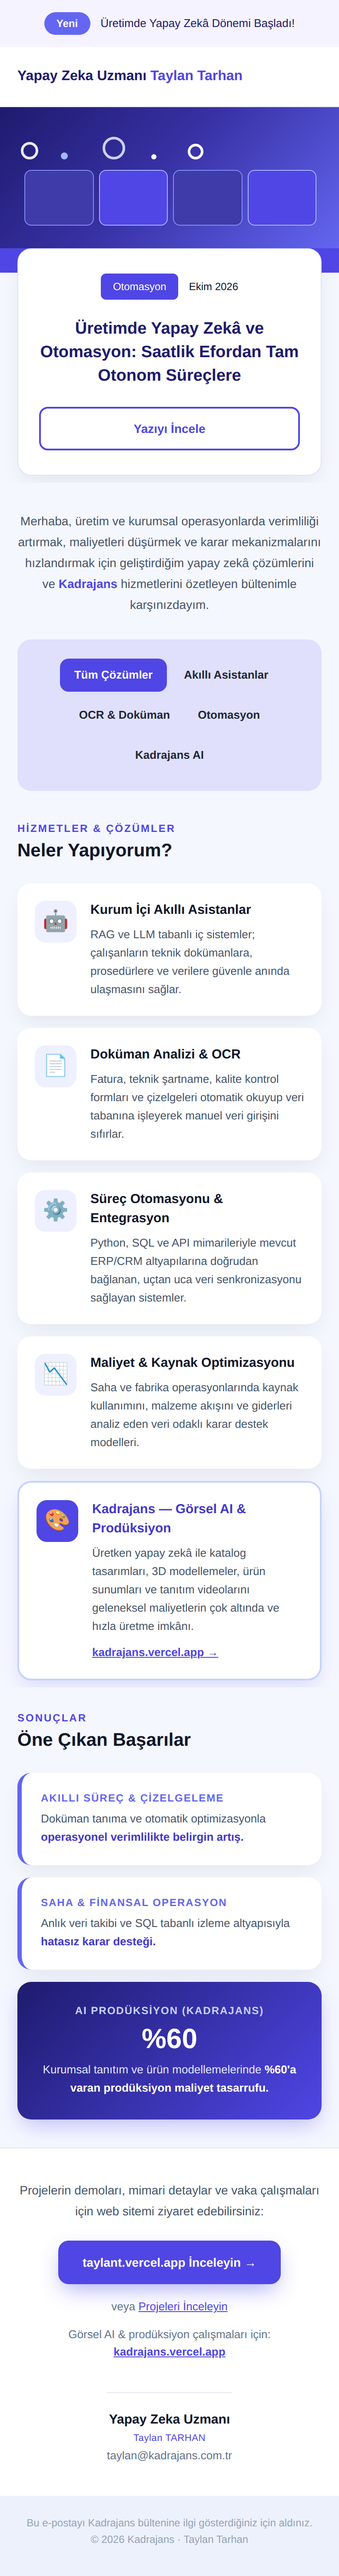
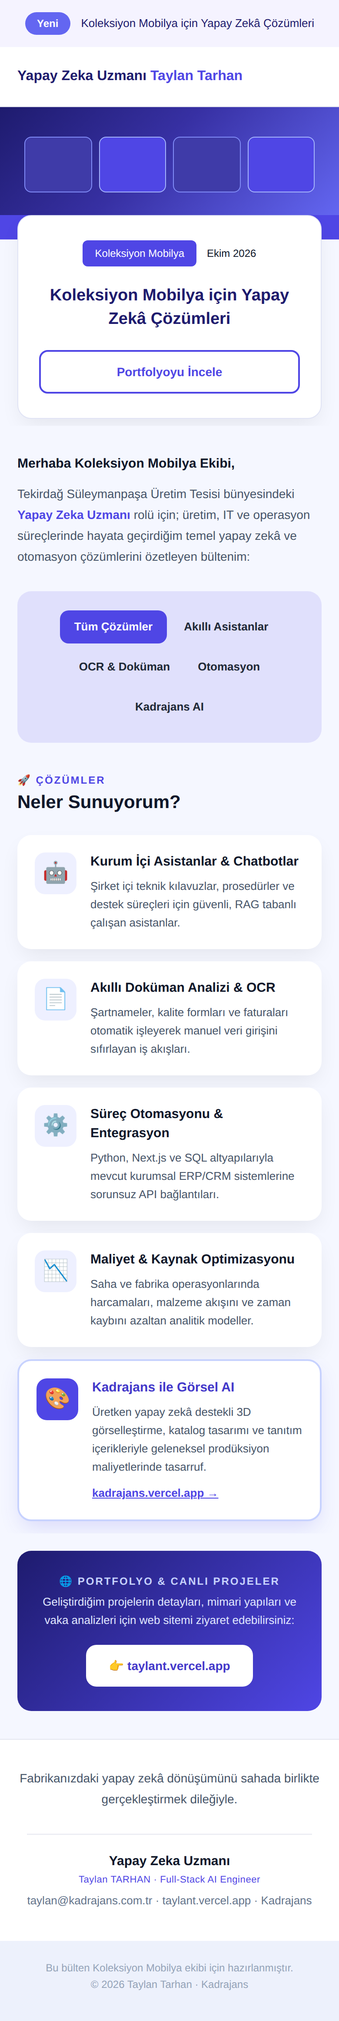
Bülten içeriğini Koleksiyon Mobilya metniyle güncelle
Claude-Session: https://claude.ai/code/session_01Dy8T3rEx6MDvU9o5oYD5pN

diff --git a/newsletter/kadrajans-bulten.html b/newsletter/kadrajans-bulten.html
@@ -1,18 +1,16 @@
 <!DOCTYPE html>
-<html lang="tr" xmlns="http://www.w3.org/1999/xhtml" xmlns:v="urn:schemas-microsoft-com:vml" xmlns:o="urn:schemas-microsoft-com:office:office">
+<html lang="tr" xmlns="http://www.w3.org/1999/xhtml">
 <head>
 <meta charset="utf-8">
 <meta name="viewport" content="width=device-width, initial-scale=1">
 <meta http-equiv="X-UA-Compatible" content="IE=edge">
-<meta name="x-apple-disable-message-reformatting">
 <meta name="color-scheme" content="light only">
-<title>Üretimde Yapay Zekâ ve Otomasyon — Kadrajans</title>
-<!--[if mso]><xml><o:OfficeDocumentSettings><o:PixelsPerInch>96</o:PixelsPerInch></o:OfficeDocumentSettings></xml><![endif]-->
+<title>Koleksiyon Mobilya için Yapay Zekâ Çözümleri</title>
 <link href="https://fonts.googleapis.com/css2?family=Poppins:wght@400;500;600;700;800&display=swap" rel="stylesheet">
 <style>
   body,table,td,a{-webkit-text-size-adjust:100%;-ms-text-size-adjust:100%}
   table,td{mso-table-lspace:0;mso-table-rspace:0}
-  img{-ms-interpolation-mode:bicubic;border:0;outline:none;text-decoration:none}
+  img{border:0;outline:none;text-decoration:none}
   body{margin:0!important;padding:0!important;width:100%!important}
   a{text-decoration:none}
   @media only screen and (max-width:620px){
@@ -20,281 +18,60 @@
     .px{padding-left:20px!important;padding-right:20px!important}
     .hero-title{font-size:19px!important;line-height:27px!important}
     .h2{font-size:21px!important}
-    .stack{display:block!important;width:100%!important}
-    .stack-gap{padding-bottom:12px!important}
-    .metric-num{font-size:32px!important}
-    .cta-btn a{display:block!important}
   }
 </style>
 </head>
-<body style="margin:0;padding:0;background-color:#edf1fc;font-family:'Poppins',Arial,Helvetica,sans-serif;">
+<body style="margin:0;padding:0;background-color:#edf1fc;font-family:'Poppins',Arial,sans-serif;">
+<div style="display:none;max-height:0;overflow:hidden;opacity:0;font-size:1px;line-height:1px;color:#edf1fc;">Tekirdağ Süleymanpaşa Üretim Tesisi için yapay zekâ ve otomasyon çözümleri.</div>
+<table role="presentation" width="100%" cellpadding="0" cellspacing="0" border="0" bgcolor="#edf1fc" style="background-color:#edf1fc;"><tr><td align="center">
+<table role="presentation" class="container" width="600" cellpadding="0" cellspacing="0" border="0" style="width:600px;max-width:600px;">
 
-<!-- Preheader -->
-<div style="display:none;max-height:0;overflow:hidden;opacity:0;font-size:1px;line-height:1px;color:#edf1fc;">
-  Kurum içi akıllı asistanlar, OCR, süreç otomasyonu ve %60'a varan prodüksiyon tasarrufu — Kadrajans bülteni.
-</div>
+<tr><td align="center" bgcolor="#f5f3ff" style="background-color:#f5f3ff;padding:14px 16px;"><table role="presentation" cellpadding="0" cellspacing="0" border="0"><tr><td bgcolor="#6366f1" style="background-color:#6366f1;border-radius:999px;padding:5px 14px;font-family:'Poppins',Arial,sans-serif;font-size:12px;font-weight:600;color:#ffffff;line-height:16px;">Yeni</td><td style="padding-left:12px;font-family:'Poppins',Arial,sans-serif;font-size:13px;color:#1e1b6e;line-height:20px;">Koleksiyon Mobilya için Yapay Zekâ Çözümleri</td></tr></table></td></tr>
 
-<table role="presentation" width="100%" cellpadding="0" cellspacing="0" border="0" bgcolor="#edf1fc" style="background-color:#edf1fc;background-image:linear-gradient(180deg,#f5f7ff 0%,#edf1fc 100%);">
-<tr><td align="center" style="padding:0;">
+<tr><td bgcolor="#ffffff" class="px" style="background-color:#ffffff;padding:22px 32px;border-bottom:1px solid #e5e7f0;font-family:'Poppins',Arial,sans-serif;font-size:16px;line-height:24px;font-weight:700;color:#1e1b6e;">Yapay Zeka Uzmanı <span style="color:#4f46e5;">Taylan Tarhan</span></td></tr>
 
-  <!-- ===== ÜST BİLDİRİM ŞERİDİ ===== -->
-  <table role="presentation" class="container" width="600" cellpadding="0" cellspacing="0" border="0" style="width:600px;max-width:600px;">
-    <tr>
-      <td align="center" bgcolor="#f5f3ff" style="background-color:#f5f3ff;padding:14px 16px;">
-        <table role="presentation" cellpadding="0" cellspacing="0" border="0"><tr>
-          <td bgcolor="#6366f1" style="background-color:#6366f1;border-radius:999px;padding:5px 14px;font-family:'Poppins',Arial,sans-serif;font-size:12px;font-weight:600;color:#ffffff;line-height:16px;">Yeni</td>
-          <td style="padding-left:12px;font-family:'Poppins',Arial,sans-serif;font-size:13px;color:#1e1b6e;line-height:20px;">Üretimde Yapay Zekâ Dönemi Başladı!</td>
-        </tr></table>
-      </td>
-    </tr>
+<tr><td bgcolor="#1e1b6e" align="center" style="background-color:#1e1b6e;background-image:linear-gradient(135deg,#1e1b6e 0%,#3730a3 45%,#6366f1 100%);padding:34px 24px 26px 24px;"><table role="presentation" width="100%" cellpadding="0" cellspacing="0" border="0"><tr>
+<td width="25%" style="padding:0 4px;"><div style="height:62px;border:1px solid #818cf8;background-color:#3f3ba8;border-radius:8px;"></div></td>
+<td width="25%" style="padding:0 4px;"><div style="height:62px;border:1px solid #a5b4fc;background-color:#4f46e5;border-radius:8px;"></div></td>
+<td width="25%" style="padding:0 4px;"><div style="height:62px;border:1px solid #818cf8;background-color:#3f3ba8;border-radius:8px;"></div></td>
+<td width="25%" style="padding:0 4px;"><div style="height:62px;border:1px solid #a5b4fc;background-color:#4f46e5;border-radius:8px;"></div></td>
+</tr></table></td></tr>
 
-    <!-- ===== HEADER / LOGO ===== -->
-    <tr>
-      <td bgcolor="#ffffff" class="px" style="background-color:#ffffff;padding:22px 32px;border-bottom:1px solid #e5e7f0;">
-        <table role="presentation" width="100%" cellpadding="0" cellspacing="0" border="0"><tr>
-          <td align="left" style="font-family:'Poppins',Arial,sans-serif;font-size:16px;line-height:24px;font-weight:700;letter-spacing:0;color:#1e1b6e;">
-            Yapay Zeka Uzmanı <span style="color:#4f46e5;">Taylan Tarhan</span>
-          </td>
-        </tr></table>
-      </td>
-    </tr>
+<tr><td bgcolor="#f5f7ff" class="px" style="background-color:#f5f7ff;background-image:linear-gradient(180deg,#4f46e5 0%,#4f46e5 28px,#f5f7ff 28px,#f5f7ff 100%);padding:0 24px 8px 24px;">
+<table role="presentation" width="100%" cellpadding="0" cellspacing="0" border="0" bgcolor="#ffffff" style="background-color:#ffffff;border-radius:16px;border:1px solid #e0e3f5;box-shadow:0 10px 25px -5px rgba(0,0,0,0.08);">
+<tr><td align="center" style="padding:28px 24px 8px 24px;"><table role="presentation" cellpadding="0" cellspacing="0" border="0"><tr><td bgcolor="#4f46e5" style="background-color:#4f46e5;border-radius:6px;padding:6px 14px;font-family:'Poppins',Arial,sans-serif;font-size:12px;font-weight:500;color:#ffffff;line-height:18px;">Koleksiyon Mobilya</td><td style="padding-left:12px;font-family:'Poppins',Arial,sans-serif;font-size:12px;color:#0f172a;line-height:18px;">Ekim 2026</td></tr></table></td></tr>
+<tr><td align="center" class="hero-title" style="padding:12px 24px 22px 24px;font-family:'Poppins',Arial,sans-serif;font-size:20px;line-height:28px;font-weight:700;color:#1e1b6e;">Koleksiyon Mobilya için Yapay Zekâ Çözümleri</td></tr>
+<tr><td align="center" style="padding:0 24px 28px 24px;"><table role="presentation" width="100%" cellpadding="0" cellspacing="0" border="0"><tr><td align="center" style="border:2px solid #4f46e5;border-radius:10px;"><a href="https://taylant.vercel.app" target="_blank" style="display:block;padding:12px 20px;font-family:'Poppins',Arial,sans-serif;font-size:14px;font-weight:600;color:#4f46e5;line-height:22px;">Portfolyoyu İncele</a></td></tr></table></td></tr>
+</table></td></tr>
 
-    <!-- ===== HERO ===== -->
-    <tr>
-      <td bgcolor="#1e1b6e" align="center" style="background-color:#1e1b6e;background-image:linear-gradient(135deg,#1e1b6e 0%,#3730a3 45%,#6366f1 100%);padding:34px 24px 0 24px;">
-        <!-- dekoratif halkalar / yapay zekâ arayüzü -->
-        <table role="presentation" width="100%" cellpadding="0" cellspacing="0" border="0">
-          <tr>
-            <td align="left" style="font-size:0;line-height:0;padding-bottom:6px;">
-              <span style="display:inline-block;width:14px;height:14px;border:3px solid #ffffff;border-radius:50%;opacity:.9;"></span>
-              <span style="display:inline-block;width:8px;height:8px;background:#a5b4fc;border-radius:50%;margin-left:26px;"></span>
-              <span style="display:inline-block;width:20px;height:20px;border:3px solid #c7d2fe;border-radius:50%;margin-left:40px;"></span>
-              <span style="display:inline-block;width:6px;height:6px;background:#ffffff;border-radius:50%;margin-left:30px;"></span>
-              <span style="display:inline-block;width:12px;height:12px;border:3px solid #ffffff;border-radius:50%;margin-left:36px;"></span>
-            </td>
-          </tr>
-          <tr>
-            <td align="center" style="padding:6px 0 0 0;">
-              <table role="presentation" width="100%" cellpadding="0" cellspacing="0" border="0"><tr>
-                <td width="25%" style="padding:0 4px;"><div style="width:100%;height:62px;border:1px solid #818cf8;background-color:#3f3ba8;border-radius:8px;"></div></td>
-                <td width="25%" style="padding:0 4px;"><div style="width:100%;height:62px;border:1px solid #a5b4fc;background-color:#4f46e5;border-radius:8px;"></div></td>
-                <td width="25%" style="padding:0 4px;"><div style="width:100%;height:62px;border:1px solid #818cf8;background-color:#3f3ba8;border-radius:8px;"></div></td>
-                <td width="25%" style="padding:0 4px;"><div style="width:100%;height:62px;border:1px solid #a5b4fc;background-color:#4f46e5;border-radius:8px;"></div></td>
-              </tr></table>
-            </td>
-          </tr>
-          <tr><td height="26" style="font-size:0;line-height:0;">&nbsp;</td></tr>
-        </table>
-      </td>
-    </tr>
+<tr><td bgcolor="#f5f7ff" class="px" style="background-color:#f5f7ff;padding:32px 32px 8px 32px;">
+<p style="margin:0 0 10px 0;font-family:'Poppins',Arial,sans-serif;font-size:15px;line-height:24px;font-weight:700;color:#0f172a;">Merhaba Koleksiyon Mobilya Ekibi,</p>
+<p style="margin:0;font-family:'Poppins',Arial,sans-serif;font-size:14px;line-height:24px;color:#475569;">Tekirdağ Süleymanpaşa Üretim Tesisi bünyesindeki <strong style="color:#4f46e5;">Yapay Zeka Uzmanı</strong> rolü için; üretim, IT ve operasyon süreçlerinde hayata geçirdiğim temel yapay zekâ ve otomasyon çözümlerini özetleyen bültenim:</p></td></tr>
 
-    <!-- Binen beyaz kart: üst yarı lacivert, alt yarı açık zemin -->
-    <tr>
-      <td bgcolor="#edf1fc" class="px" style="background-color:#edf1fc;background-image:linear-gradient(180deg,#4f46e5 0%,#4f46e5 28px,#f5f7ff 28px,#f5f7ff 100%);padding:0 24px 8px 24px;">
-        <table role="presentation" width="100%" cellpadding="0" cellspacing="0" border="0" bgcolor="#ffffff" style="background-color:#ffffff;border-radius:16px;border:1px solid #e0e3f5;box-shadow:0 10px 25px -5px rgba(0,0,0,0.08);">
-          <tr>
-            <td align="center" style="padding:28px 24px 8px 24px;">
-              <table role="presentation" cellpadding="0" cellspacing="0" border="0"><tr>
-                <td bgcolor="#4f46e5" style="background-color:#4f46e5;border-radius:6px;padding:6px 14px;font-family:'Poppins',Arial,sans-serif;font-size:12px;font-weight:500;color:#ffffff;line-height:18px;">Otomasyon</td>
-                <td style="padding-left:12px;font-family:'Poppins',Arial,sans-serif;font-size:12px;color:#0f172a;line-height:18px;">Ekim 2026</td>
-              </tr></table>
-            </td>
-          </tr>
-          <tr>
-            <td align="center" class="hero-title" style="padding:12px 24px 22px 24px;font-family:'Poppins',Arial,sans-serif;font-size:20px;line-height:28px;font-weight:700;color:#1e1b6e;">
-              Üretimde Yapay Zekâ ve Otomasyon: Saatlik Efordan Tam Otonom Süreçlere
-            </td>
-          </tr>
-          <tr>
-            <td align="center" style="padding:0 24px 28px 24px;">
-              <table role="presentation" width="100%" cellpadding="0" cellspacing="0" border="0" class="cta-btn"><tr>
-                <td align="center" style="border:2px solid #4f46e5;border-radius:10px;">
-                  <a href="https://taylant.vercel.app" target="_blank" style="display:block;padding:12px 20px;font-family:'Poppins',Arial,sans-serif;font-size:14px;font-weight:600;color:#4f46e5;line-height:22px;">Yazıyı İncele</a>
-                </td>
-              </tr></table>
-            </td>
-          </tr>
-        </table>
-      </td>
-    </tr>
+<tr><td bgcolor="#f5f7ff" class="px" align="center" style="background-color:#f5f7ff;padding:20px 20px 28px 20px;"><table role="presentation" width="100%" cellpadding="0" cellspacing="0" border="0" bgcolor="#e0e0fc" style="background-color:#e0e0fc;border-radius:16px;"><tr><td align="center" style="padding:18px 12px;"><a href="https://taylant.vercel.app" style="display:inline-block;margin:4px;padding:9px 16px;background-color:#4f46e5;border-radius:10px;font-family:'Poppins',Arial,sans-serif;font-size:13px;font-weight:600;color:#ffffff;line-height:20px;">Tüm Çözümler</a><a href="https://taylant.vercel.app" style="display:inline-block;margin:4px;padding:9px 12px;border-radius:10px;font-family:'Poppins',Arial,sans-serif;font-size:13px;font-weight:600;color:#1f2937;line-height:20px;text-decoration:none;">Akıllı Asistanlar</a><a href="https://taylant.vercel.app" style="display:inline-block;margin:4px;padding:9px 12px;border-radius:10px;font-family:'Poppins',Arial,sans-serif;font-size:13px;font-weight:600;color:#1f2937;line-height:20px;text-decoration:none;">OCR &amp; Doküman</a><a href="https://taylant.vercel.app" style="display:inline-block;margin:4px;padding:9px 12px;border-radius:10px;font-family:'Poppins',Arial,sans-serif;font-size:13px;font-weight:600;color:#1f2937;line-height:20px;text-decoration:none;">Otomasyon</a><a href="https://kadrajans.vercel.app" style="display:inline-block;margin:4px;padding:9px 12px;border-radius:10px;font-family:'Poppins',Arial,sans-serif;font-size:13px;font-weight:600;color:#1f2937;line-height:20px;text-decoration:none;">Kadrajans AI</a></td></tr></table></td></tr>
 
-    <!-- ===== GİRİŞ ===== -->
-    <tr>
-      <td bgcolor="#f5f7ff" class="px" align="center" style="background-color:#f5f7ff;padding:32px 32px 8px 32px;">
-        <p style="margin:0;font-family:'Poppins',Arial,sans-serif;font-size:14px;line-height:24px;color:#475569;">
-          Merhaba, üretim ve kurumsal operasyonlarda verimliliği artırmak, maliyetleri düşürmek ve karar mekanizmalarını hızlandırmak için geliştirdiğim yapay zekâ çözümlerini ve <strong style="color:#4f46e5;">Kadrajans</strong> hizmetlerini özetleyen bültenimle karşınızdayım.
-        </p>
-      </td>
-    </tr>
+<tr><td bgcolor="#f5f7ff" class="px" style="background-color:#f5f7ff;padding:8px 24px 4px 24px;"><p style="margin:0 0 4px 0;font-family:'Poppins',Arial,sans-serif;font-size:12px;font-weight:600;letter-spacing:1.5px;color:#4f46e5;text-transform:uppercase;">🚀 Çözümler</p><h2 class="h2" style="margin:0 0 18px 0;font-family:'Poppins',Arial,sans-serif;font-size:22px;line-height:30px;font-weight:700;color:#0f172a;">Neler Sunuyorum?</h2></td></tr>
+<tr><td bgcolor="#f5f7ff" class="px" style="background-color:#f5f7ff;padding:0 24px 14px 24px;"><table role="presentation" width="100%" cellpadding="0" cellspacing="0" border="0" bgcolor="#ffffff" style="background-color:#ffffff;border-radius:16px;box-shadow:0 10px 25px -5px rgba(0,0,0,0.08);"><tr><td width="48" valign="top" style="padding:20px 0 20px 20px;"><table role="presentation" cellpadding="0" cellspacing="0" border="0"><tr><td align="center" width="48" height="48" bgcolor="#eef0ff" style="background-color:#eef0ff;border-radius:12px;font-size:24px;line-height:48px;">🤖</td></tr></table></td><td valign="top" style="padding:20px 20px 20px 16px;"><p style="margin:0 0 6px 0;font-family:'Poppins',Arial,sans-serif;font-size:15px;line-height:22px;font-weight:700;color:#0f172a;">Kurum İçi Asistanlar &amp; Chatbotlar</p><p style="margin:0;font-family:'Poppins',Arial,sans-serif;font-size:13px;line-height:21px;color:#475569;">Şirket içi teknik kılavuzlar, prosedürler ve destek süreçleri için güvenli, RAG tabanlı çalışan asistanlar.</p></td></tr></table></td></tr>
+<tr><td bgcolor="#f5f7ff" class="px" style="background-color:#f5f7ff;padding:0 24px 14px 24px;"><table role="presentation" width="100%" cellpadding="0" cellspacing="0" border="0" bgcolor="#ffffff" style="background-color:#ffffff;border-radius:16px;box-shadow:0 10px 25px -5px rgba(0,0,0,0.08);"><tr><td width="48" valign="top" style="padding:20px 0 20px 20px;"><table role="presentation" cellpadding="0" cellspacing="0" border="0"><tr><td align="center" width="48" height="48" bgcolor="#eef0ff" style="background-color:#eef0ff;border-radius:12px;font-size:24px;line-height:48px;">📄</td></tr></table></td><td valign="top" style="padding:20px 20px 20px 16px;"><p style="margin:0 0 6px 0;font-family:'Poppins',Arial,sans-serif;font-size:15px;line-height:22px;font-weight:700;color:#0f172a;">Akıllı Doküman Analizi &amp; OCR</p><p style="margin:0;font-family:'Poppins',Arial,sans-serif;font-size:13px;line-height:21px;color:#475569;">Şartnameler, kalite formları ve faturaları otomatik işleyerek manuel veri girişini sıfırlayan iş akışları.</p></td></tr></table></td></tr>
+<tr><td bgcolor="#f5f7ff" class="px" style="background-color:#f5f7ff;padding:0 24px 14px 24px;"><table role="presentation" width="100%" cellpadding="0" cellspacing="0" border="0" bgcolor="#ffffff" style="background-color:#ffffff;border-radius:16px;box-shadow:0 10px 25px -5px rgba(0,0,0,0.08);"><tr><td width="48" valign="top" style="padding:20px 0 20px 20px;"><table role="presentation" cellpadding="0" cellspacing="0" border="0"><tr><td align="center" width="48" height="48" bgcolor="#eef0ff" style="background-color:#eef0ff;border-radius:12px;font-size:24px;line-height:48px;">⚙</td></tr></table></td><td valign="top" style="padding:20px 20px 20px 16px;"><p style="margin:0 0 6px 0;font-family:'Poppins',Arial,sans-serif;font-size:15px;line-height:22px;font-weight:700;color:#0f172a;">Süreç Otomasyonu &amp; Entegrasyon</p><p style="margin:0;font-family:'Poppins',Arial,sans-serif;font-size:13px;line-height:21px;color:#475569;">Python, Next.js ve SQL altyapılarıyla mevcut kurumsal ERP/CRM sistemlerine sorunsuz API bağlantıları.</p></td></tr></table></td></tr>
+<tr><td bgcolor="#f5f7ff" class="px" style="background-color:#f5f7ff;padding:0 24px 14px 24px;"><table role="presentation" width="100%" cellpadding="0" cellspacing="0" border="0" bgcolor="#ffffff" style="background-color:#ffffff;border-radius:16px;box-shadow:0 10px 25px -5px rgba(0,0,0,0.08);"><tr><td width="48" valign="top" style="padding:20px 0 20px 20px;"><table role="presentation" cellpadding="0" cellspacing="0" border="0"><tr><td align="center" width="48" height="48" bgcolor="#eef0ff" style="background-color:#eef0ff;border-radius:12px;font-size:24px;line-height:48px;">📉</td></tr></table></td><td valign="top" style="padding:20px 20px 20px 16px;"><p style="margin:0 0 6px 0;font-family:'Poppins',Arial,sans-serif;font-size:15px;line-height:22px;font-weight:700;color:#0f172a;">Maliyet &amp; Kaynak Optimizasyonu</p><p style="margin:0;font-family:'Poppins',Arial,sans-serif;font-size:13px;line-height:21px;color:#475569;">Saha ve fabrika operasyonlarında harcamaları, malzeme akışını ve zaman kaybını azaltan analitik modeller.</p></td></tr></table></td></tr>
+<tr><td bgcolor="#f5f7ff" class="px" style="background-color:#f5f7ff;padding:0 24px 14px 24px;"><table role="presentation" width="100%" cellpadding="0" cellspacing="0" border="0" bgcolor="#ffffff" style="background-color:#ffffff;border-radius:16px;border:2px solid #c7d2fe;box-shadow:0 10px 25px -5px rgba(79,70,229,0.18);"><tr><td width="48" valign="top" style="padding:20px 0 20px 20px;"><table role="presentation" cellpadding="0" cellspacing="0" border="0"><tr><td align="center" width="48" height="48" bgcolor="#4f46e5" style="background-color:#4f46e5;border-radius:12px;font-size:24px;line-height:48px;">🎨</td></tr></table></td><td valign="top" style="padding:20px 20px 20px 16px;"><p style="margin:0 0 6px 0;font-family:'Poppins',Arial,sans-serif;font-size:15px;line-height:22px;font-weight:700;color:#4338ca;">Kadrajans ile Görsel AI</p><p style="margin:0;font-family:'Poppins',Arial,sans-serif;font-size:13px;line-height:21px;color:#475569;">Üretken yapay zekâ destekli 3D görselleştirme, katalog tasarımı ve tanıtım içerikleriyle geleneksel prodüksiyon maliyetlerinde tasarruf.</p><p style="margin:10px 0 0 0;font-family:'Poppins',Arial,sans-serif;font-size:13px;line-height:20px;font-weight:600;"><a href="https://kadrajans.vercel.app" target="_blank" style="color:#4f46e5;text-decoration:underline;">kadrajans.vercel.app &rarr;</a></p></td></tr></table></td></tr>
 
-    <!-- ===== KATEGORİ HAPLARI ===== -->
-    <tr>
-      <td bgcolor="#f5f7ff" class="px" align="center" style="background-color:#f5f7ff;padding:20px 20px 28px 20px;">
-        <table role="presentation" width="100%" cellpadding="0" cellspacing="0" border="0" bgcolor="#e0e0fc" style="background-color:#e0e0fc;border-radius:16px;">
-          <tr><td align="center" style="padding:18px 12px;font-size:0;line-height:0;">
-            <a href="https://taylant.vercel.app" style="display:inline-block;margin:4px;padding:9px 16px;background-color:#4f46e5;border-radius:10px;font-family:'Poppins',Arial,sans-serif;font-size:13px;font-weight:600;color:#ffffff;line-height:20px;">Tüm Çözümler</a><a href="https://taylant.vercel.app" style="display:inline-block;margin:4px;padding:9px 12px;border-radius:10px;font-family:'Poppins',Arial,sans-serif;font-size:13px;font-weight:600;color:#1f2937;line-height:20px;">Akıllı Asistanlar</a><a href="https://taylant.vercel.app" style="display:inline-block;margin:4px;padding:9px 12px;border-radius:10px;font-family:'Poppins',Arial,sans-serif;font-size:13px;font-weight:600;color:#1f2937;line-height:20px;">OCR &amp; Doküman</a><a href="https://taylant.vercel.app" style="display:inline-block;margin:4px;padding:9px 12px;border-radius:10px;font-family:'Poppins',Arial,sans-serif;font-size:13px;font-weight:600;color:#1f2937;line-height:20px;">Otomasyon</a><a href="https://kadrajans.vercel.app" style="display:inline-block;margin:4px;padding:9px 12px;border-radius:10px;font-family:'Poppins',Arial,sans-serif;font-size:13px;font-weight:600;color:#1f2937;line-height:20px;">Kadrajans AI</a>
-          </td></tr>
-        </table>
-      </td>
-    </tr>
+<tr><td bgcolor="#f5f7ff" class="px" style="background-color:#f5f7ff;padding:20px 24px 32px 24px;"><table role="presentation" width="100%" cellpadding="0" cellspacing="0" border="0" bgcolor="#4338ca" style="background-color:#4338ca;background-image:linear-gradient(135deg,#1e1b6e 0%,#4f46e5 100%);border-radius:16px;"><tr><td align="center" style="padding:28px 22px;">
+<p style="margin:0 0 6px 0;font-family:'Poppins',Arial,sans-serif;font-size:12px;font-weight:600;letter-spacing:1.5px;color:#c7d2fe;text-transform:uppercase;">🌐 Portfolyo &amp; Canlı Projeler</p>
+<p style="margin:0 0 18px 0;font-family:'Poppins',Arial,sans-serif;font-size:13px;line-height:21px;color:#e0e7ff;">Geliştirdiğim projelerin detayları, mimari yapıları ve vaka analizleri için web sitemi ziyaret edebilirsiniz:</p>
+<table role="presentation" cellpadding="0" cellspacing="0" border="0" style="margin:0 auto;"><tr><td align="center" bgcolor="#ffffff" style="background-color:#ffffff;border-radius:12px;"><a href="https://taylant.vercel.app" target="_blank" style="display:inline-block;padding:13px 26px;font-family:'Poppins',Arial,sans-serif;font-size:14px;font-weight:600;color:#4338ca;line-height:22px;">👉 taylant.vercel.app</a></td></tr></table>
+</td></tr></table></td></tr>
 
-    <!-- ===== BÖLÜM 1: NELER YAPIYORUM ===== -->
-    <tr>
-      <td bgcolor="#f5f7ff" class="px" style="background-color:#f5f7ff;padding:8px 24px 4px 24px;">
-        <p style="margin:0 0 4px 0;font-family:'Poppins',Arial,sans-serif;font-size:12px;font-weight:600;letter-spacing:1.5px;color:#4f46e5;text-transform:uppercase;">Hizmetler &amp; Çözümler</p>
-        <h2 class="h2" style="margin:0 0 18px 0;font-family:'Poppins',Arial,sans-serif;font-size:22px;line-height:30px;font-weight:700;color:#0f172a;">Neler Yapıyorum?</h2>
-      </td>
-    </tr>
+<tr><td bgcolor="#ffffff" class="px" align="center" style="background-color:#ffffff;padding:32px 32px 8px 32px;border-top:1px solid #e5e7f0;"><p style="margin:0;font-family:'Poppins',Arial,sans-serif;font-size:14px;line-height:24px;color:#475569;">Fabrikanızdaki yapay zekâ dönüşümünü sahada birlikte gerçekleştirmek dileğiyle.</p></td></tr>
 
-    <!-- Kart 1 -->
-    <tr><td bgcolor="#f5f7ff" class="px" style="background-color:#f5f7ff;padding:0 24px 14px 24px;">
-      <table role="presentation" width="100%" cellpadding="0" cellspacing="0" border="0" bgcolor="#ffffff" style="background-color:#ffffff;border-radius:16px;box-shadow:0 10px 25px -5px rgba(0,0,0,0.08);">
-        <tr>
-          <td width="48" valign="top" style="padding:20px 0 20px 20px;">
-            <table role="presentation" cellpadding="0" cellspacing="0" border="0"><tr><td align="center" width="48" height="48" bgcolor="#eef0ff" style="background-color:#eef0ff;border-radius:12px;font-size:24px;line-height:48px;">🤖</td></tr></table>
-          </td>
-          <td valign="top" style="padding:20px 20px 20px 16px;">
-            <p style="margin:0 0 6px 0;font-family:'Poppins',Arial,sans-serif;font-size:15px;line-height:22px;font-weight:700;color:#0f172a;">Kurum İçi Akıllı Asistanlar</p>
-            <p style="margin:0;font-family:'Poppins',Arial,sans-serif;font-size:13px;line-height:21px;color:#475569;">RAG ve LLM tabanlı iç sistemler; çalışanların teknik dokümanlara, prosedürlere ve verilere güvenle anında ulaşmasını sağlar.</p>
-          </td>
-        </tr>
-      </table>
-    </td></tr>
+<tr><td bgcolor="#ffffff" class="px" align="center" style="background-color:#ffffff;padding:20px 32px 36px 32px;"><table role="presentation" cellpadding="0" cellspacing="0" border="0" align="center"><tr><td align="center" style="border-top:1px solid #e5e7f0;padding-top:20px;">
+<p style="margin:0;font-family:'Poppins',Arial,sans-serif;font-size:15px;line-height:22px;font-weight:700;color:#0f172a;">Yapay Zeka Uzmanı</p>
+<p style="margin:2px 0 0 0;font-family:'Poppins',Arial,sans-serif;font-size:11px;line-height:16px;color:#4f46e5;font-weight:500;letter-spacing:.3px;">Taylan TARHAN · Full-Stack AI Engineer</p>
+<p style="margin:6px 0 0 0;font-family:'Poppins',Arial,sans-serif;font-size:13px;line-height:20px;color:#64748b;"><a href="mailto:taylan@kadrajans.com.tr" style="color:#64748b;">taylan@kadrajans.com.tr</a> · <a href="https://taylant.vercel.app" style="color:#64748b;">taylant.vercel.app</a> · <a href="https://kadrajans.vercel.app" style="color:#64748b;">Kadrajans</a></p>
+</td></tr></table></td></tr>
 
-    <!-- Kart 2 -->
-    <tr><td bgcolor="#f5f7ff" class="px" style="background-color:#f5f7ff;padding:0 24px 14px 24px;">
-      <table role="presentation" width="100%" cellpadding="0" cellspacing="0" border="0" bgcolor="#ffffff" style="background-color:#ffffff;border-radius:16px;box-shadow:0 10px 25px -5px rgba(0,0,0,0.08);">
-        <tr>
-          <td width="48" valign="top" style="padding:20px 0 20px 20px;">
-            <table role="presentation" cellpadding="0" cellspacing="0" border="0"><tr><td align="center" width="48" height="48" bgcolor="#eef0ff" style="background-color:#eef0ff;border-radius:12px;font-size:24px;line-height:48px;">📄</td></tr></table>
-          </td>
-          <td valign="top" style="padding:20px 20px 20px 16px;">
-            <p style="margin:0 0 6px 0;font-family:'Poppins',Arial,sans-serif;font-size:15px;line-height:22px;font-weight:700;color:#0f172a;">Doküman Analizi &amp; OCR</p>
-            <p style="margin:0;font-family:'Poppins',Arial,sans-serif;font-size:13px;line-height:21px;color:#475569;">Fatura, teknik şartname, kalite kontrol formları ve çizelgeleri otomatik okuyup veri tabanına işleyerek manuel veri girişini sıfırlar.</p>
-          </td>
-        </tr>
-      </table>
-    </td></tr>
-
-    <!-- Kart 3 -->
-    <tr><td bgcolor="#f5f7ff" class="px" style="background-color:#f5f7ff;padding:0 24px 14px 24px;">
-      <table role="presentation" width="100%" cellpadding="0" cellspacing="0" border="0" bgcolor="#ffffff" style="background-color:#ffffff;border-radius:16px;box-shadow:0 10px 25px -5px rgba(0,0,0,0.08);">
-        <tr>
-          <td width="48" valign="top" style="padding:20px 0 20px 20px;">
-            <table role="presentation" cellpadding="0" cellspacing="0" border="0"><tr><td align="center" width="48" height="48" bgcolor="#eef0ff" style="background-color:#eef0ff;border-radius:12px;font-size:24px;line-height:48px;">⚙</td></tr></table>
-          </td>
-          <td valign="top" style="padding:20px 20px 20px 16px;">
-            <p style="margin:0 0 6px 0;font-family:'Poppins',Arial,sans-serif;font-size:15px;line-height:22px;font-weight:700;color:#0f172a;">Süreç Otomasyonu &amp; Entegrasyon</p>
-            <p style="margin:0;font-family:'Poppins',Arial,sans-serif;font-size:13px;line-height:21px;color:#475569;">Python, SQL ve API mimarileriyle mevcut ERP/CRM altyapılarına doğrudan bağlanan, uçtan uca veri senkronizasyonu sağlayan sistemler.</p>
-          </td>
-        </tr>
-      </table>
-    </td></tr>
-
-    <!-- Kart 4 -->
-    <tr><td bgcolor="#f5f7ff" class="px" style="background-color:#f5f7ff;padding:0 24px 14px 24px;">
-      <table role="presentation" width="100%" cellpadding="0" cellspacing="0" border="0" bgcolor="#ffffff" style="background-color:#ffffff;border-radius:16px;box-shadow:0 10px 25px -5px rgba(0,0,0,0.08);">
-        <tr>
-          <td width="48" valign="top" style="padding:20px 0 20px 20px;">
-            <table role="presentation" cellpadding="0" cellspacing="0" border="0"><tr><td align="center" width="48" height="48" bgcolor="#eef0ff" style="background-color:#eef0ff;border-radius:12px;font-size:24px;line-height:48px;">📉</td></tr></table>
-          </td>
-          <td valign="top" style="padding:20px 20px 20px 16px;">
-            <p style="margin:0 0 6px 0;font-family:'Poppins',Arial,sans-serif;font-size:15px;line-height:22px;font-weight:700;color:#0f172a;">Maliyet &amp; Kaynak Optimizasyonu</p>
-            <p style="margin:0;font-family:'Poppins',Arial,sans-serif;font-size:13px;line-height:21px;color:#475569;">Saha ve fabrika operasyonlarında kaynak kullanımını, malzeme akışını ve giderleri analiz eden veri odaklı karar destek modelleri.</p>
-          </td>
-        </tr>
-      </table>
-    </td></tr>
-
-    <!-- Kart 5 (Kadrajans — vurgulu) -->
-    <tr><td bgcolor="#f5f7ff" class="px" style="background-color:#f5f7ff;padding:0 24px 8px 24px;">
-      <table role="presentation" width="100%" cellpadding="0" cellspacing="0" border="0" bgcolor="#ffffff" style="background-color:#ffffff;border-radius:16px;border:2px solid #c7d2fe;box-shadow:0 10px 25px -5px rgba(79,70,229,0.18);">
-        <tr>
-          <td width="48" valign="top" style="padding:20px 0 20px 20px;">
-            <table role="presentation" cellpadding="0" cellspacing="0" border="0"><tr><td align="center" width="48" height="48" bgcolor="#4f46e5" style="background-color:#4f46e5;border-radius:12px;font-size:24px;line-height:48px;">🎨</td></tr></table>
-          </td>
-          <td valign="top" style="padding:20px 20px 20px 16px;">
-            <p style="margin:0 0 6px 0;font-family:'Poppins',Arial,sans-serif;font-size:15px;line-height:22px;font-weight:700;color:#4338ca;">Kadrajans — Görsel AI &amp; Prodüksiyon</p>
-            <p style="margin:0;font-family:'Poppins',Arial,sans-serif;font-size:13px;line-height:21px;color:#475569;">Üretken yapay zekâ ile katalog tasarımları, 3D modellemeler, ürün sunumları ve tanıtım videolarını geleneksel maliyetlerin çok altında ve hızla üretme imkânı.</p>
-            <p style="margin:10px 0 0 0;font-family:'Poppins',Arial,sans-serif;font-size:13px;line-height:20px;font-weight:600;"><a href="https://kadrajans.vercel.app" target="_blank" style="color:#4f46e5;text-decoration:underline;">kadrajans.vercel.app &rarr;</a></p>
-          </td>
-        </tr>
-      </table>
-    </td></tr>
-
-    <!-- ===== BÖLÜM 2: BAŞARILAR ===== -->
-    <tr>
-      <td bgcolor="#f5f7ff" class="px" style="background-color:#f5f7ff;padding:28px 24px 4px 24px;">
-        <p style="margin:0 0 4px 0;font-family:'Poppins',Arial,sans-serif;font-size:12px;font-weight:600;letter-spacing:1.5px;color:#4f46e5;text-transform:uppercase;">Sonuçlar</p>
-        <h2 class="h2" style="margin:0 0 18px 0;font-family:'Poppins',Arial,sans-serif;font-size:22px;line-height:30px;font-weight:700;color:#0f172a;">Öne Çıkan Başarılar</h2>
-      </td>
-    </tr>
-
-    <tr><td bgcolor="#f5f7ff" class="px" style="background-color:#f5f7ff;padding:0 24px 14px 24px;">
-      <table role="presentation" width="100%" cellpadding="0" cellspacing="0" border="0" bgcolor="#ffffff" style="background-color:#ffffff;border-radius:16px;box-shadow:0 10px 25px -5px rgba(0,0,0,0.08);">
-        <tr><td style="padding:22px 22px;border-left:5px solid #6366f1;border-radius:16px 0 0 16px;">
-          <p style="margin:0 0 6px 0;font-family:'Poppins',Arial,sans-serif;font-size:12px;font-weight:600;letter-spacing:1px;color:#6366f1;text-transform:uppercase;">Akıllı Süreç &amp; Çizelgeleme</p>
-          <p style="margin:0;font-family:'Poppins',Arial,sans-serif;font-size:13px;line-height:21px;color:#475569;">Doküman tanıma ve otomatik optimizasyonla <strong style="color:#4338ca;">operasyonel verimlilikte belirgin artış.</strong></p>
-        </td></tr>
-      </table>
-    </td></tr>
-
-    <tr><td bgcolor="#f5f7ff" class="px" style="background-color:#f5f7ff;padding:0 24px 14px 24px;">
-      <table role="presentation" width="100%" cellpadding="0" cellspacing="0" border="0" bgcolor="#ffffff" style="background-color:#ffffff;border-radius:16px;box-shadow:0 10px 25px -5px rgba(0,0,0,0.08);">
-        <tr><td style="padding:22px 22px;border-left:5px solid #6366f1;border-radius:16px 0 0 16px;">
-          <p style="margin:0 0 6px 0;font-family:'Poppins',Arial,sans-serif;font-size:12px;font-weight:600;letter-spacing:1px;color:#6366f1;text-transform:uppercase;">Saha &amp; Finansal Operasyon</p>
-          <p style="margin:0;font-family:'Poppins',Arial,sans-serif;font-size:13px;line-height:21px;color:#475569;">Anlık veri takibi ve SQL tabanlı izleme altyapısıyla <strong style="color:#4338ca;">hatasız karar desteği.</strong></p>
-        </td></tr>
-      </table>
-    </td></tr>
-
-    <tr><td bgcolor="#f5f7ff" class="px" style="background-color:#f5f7ff;padding:0 24px 32px 24px;">
-      <table role="presentation" width="100%" cellpadding="0" cellspacing="0" border="0" bgcolor="#4338ca" style="background-color:#4338ca;background-image:linear-gradient(135deg,#1e1b6e 0%,#4f46e5 100%);border-radius:16px;box-shadow:0 10px 25px -5px rgba(79,70,229,0.35);">
-        <tr><td align="center" style="padding:26px 22px;">
-          <p style="margin:0 0 4px 0;font-family:'Poppins',Arial,sans-serif;font-size:12px;font-weight:600;letter-spacing:1px;color:#c7d2fe;text-transform:uppercase;">AI Prodüksiyon (Kadrajans)</p>
-          <p class="metric-num" style="margin:0;font-family:'Poppins',Arial,sans-serif;font-size:34px;line-height:42px;font-weight:800;color:#ffffff;">%60</p>
-          <p style="margin:4px 0 0 0;font-family:'Poppins',Arial,sans-serif;font-size:13px;line-height:21px;color:#e0e7ff;">Kurumsal tanıtım ve ürün modellemelerinde <strong style="color:#ffffff;">%60'a varan prodüksiyon maliyet tasarrufu.</strong></p>
-        </td></tr>
-      </table>
-    </td></tr>
-
-    <!-- ===== KAPANIŞ & CTA ===== -->
-    <tr>
-      <td bgcolor="#ffffff" class="px" align="center" style="background-color:#ffffff;padding:36px 32px 12px 32px;border-top:1px solid #e5e7f0;">
-        <p style="margin:0 0 22px 0;font-family:'Poppins',Arial,sans-serif;font-size:14px;line-height:24px;color:#475569;">Projelerin demoları, mimari detaylar ve vaka çalışmaları için web sitemi ziyaret edebilirsiniz:</p>
-        <table role="presentation" cellpadding="0" cellspacing="0" border="0" class="cta-btn" style="margin:0 auto;"><tr>
-          <td align="center" bgcolor="#4f46e5" style="background-color:#4f46e5;border-radius:12px;box-shadow:0 10px 25px -5px rgba(79,70,229,0.45);">
-            <a href="https://taylant.vercel.app" target="_blank" style="display:inline-block;padding:14px 28px;font-family:'Poppins',Arial,sans-serif;font-size:14px;font-weight:600;color:#ffffff;line-height:22px;">taylant.vercel.app İnceleyin &rarr;</a>
-          </td>
-        </tr></table>
-        <p style="margin:16px 0 0 0;font-family:'Poppins',Arial,sans-serif;font-size:13px;line-height:20px;color:#64748b;">veya <a href="https://taylant.vercel.app" style="color:#4f46e5;text-decoration:underline;">Projeleri İnceleyin</a></p>
-        <p style="margin:12px 0 0 0;font-family:'Poppins',Arial,sans-serif;font-size:13px;line-height:20px;color:#64748b;">Görsel AI &amp; prodüksiyon çalışmaları için: <a href="https://kadrajans.vercel.app" target="_blank" style="color:#4f46e5;font-weight:600;text-decoration:underline;">kadrajans.vercel.app</a></p>
-      </td>
-    </tr>
-
-    <!-- ===== İMZA ===== -->
-    <tr>
-      <td bgcolor="#ffffff" class="px" align="center" style="background-color:#ffffff;padding:24px 32px 36px 32px;">
-        <table role="presentation" cellpadding="0" cellspacing="0" border="0" align="center"><tr><td style="border-top:1px solid #e5e7f0;padding-top:20px;" align="center">
-          <p style="margin:0;font-family:'Poppins',Arial,sans-serif;font-size:15px;line-height:22px;font-weight:700;color:#0f172a;">Yapay Zeka Uzmanı</p>
-          <p style="margin:2px 0 0 0;font-family:'Poppins',Arial,sans-serif;font-size:11px;line-height:16px;color:#4f46e5;font-weight:500;letter-spacing:.3px;">Taylan TARHAN</p>
-          <p style="margin:2px 0 0 0;font-family:'Poppins',Arial,sans-serif;font-size:13px;line-height:20px;color:#64748b;"><a href="mailto:taylan@kadrajans.com.tr" style="color:#64748b;">taylan@kadrajans.com.tr</a></p>
-        </td></tr></table>
-      </td>
-    </tr>
-
-    <!-- ===== FOOTER ===== -->
-    <tr>
-      <td align="center" class="px" style="padding:22px 32px 32px 32px;">
-        <p style="margin:0;font-family:'Poppins',Arial,sans-serif;font-size:12px;line-height:19px;color:#94a3b8;">
-          Bu e-postayı Kadrajans bültenine ilgi gösterdiğiniz için aldınız.<br>
-          © 2026 Kadrajans · Taylan Tarhan
-        </p>
-      </td>
-    </tr>
-  </table>
-
-</td></tr>
-</table>
+<tr><td align="center" class="px" style="padding:22px 32px 32px 32px;"><p style="margin:0;font-family:'Poppins',Arial,sans-serif;font-size:12px;line-height:19px;color:#94a3b8;">Bu bülten Koleksiyon Mobilya ekibi için hazırlanmıştır.<br>© 2026 Taylan Tarhan · Kadrajans</p></td></tr>
+</table></td></tr></table>
 </body>
 </html>
